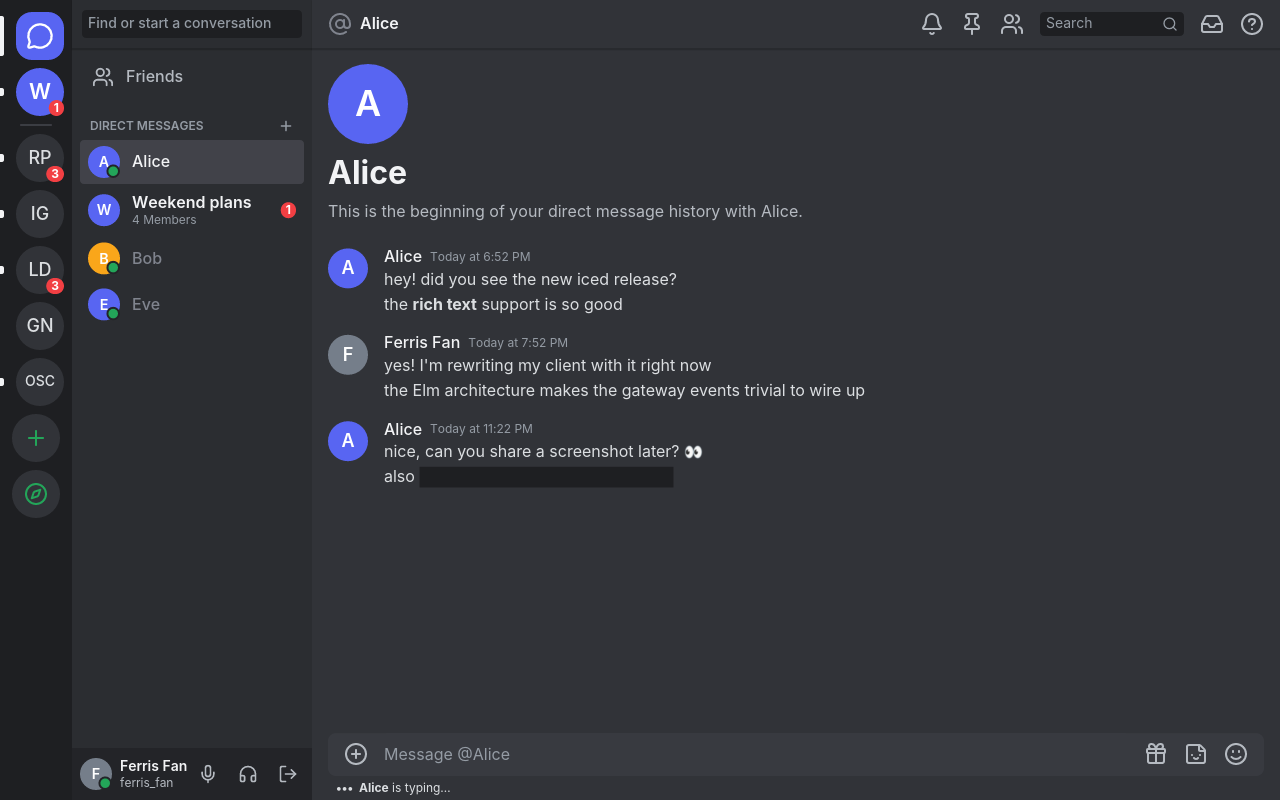
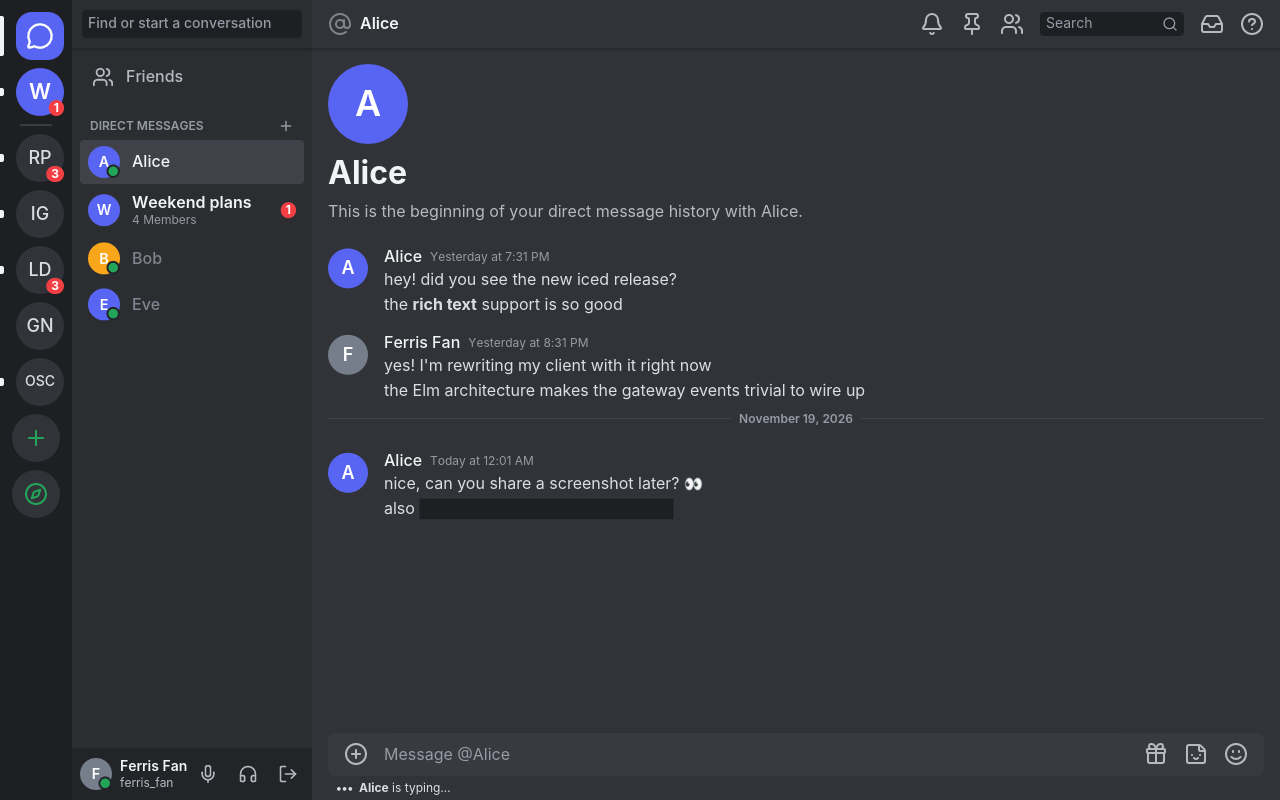
feat(ui): render inline custom emoji images in a wrapping text flow
Claude-Session: https://claude.ai/code/session_011GZUAJAc8TohrBZJFGozGm

diff --git a/src/mock.rs b/src/mock.rs
@@ -558,6 +558,31 @@ fn showcase() -> Vec<Message> {
     vec![d, b, c, a, e]
 }
 
+/// A small round "emoji" image (original artwork: a coloured face) used for
+/// the mock custom emoji. Returns (size, pixels).
+pub fn mock_emoji(rgb: [u8; 3]) -> (u32, Vec<u8>) {
+    let n = 48u32;
+    let mut px = Vec::with_capacity((n * n * 4) as usize);
+    let c = (n as f32 - 1.0) / 2.0;
+    for y in 0..n {
+        for x in 0..n {
+            let (dx, dy) = (x as f32 - c, y as f32 - c);
+            let d = (dx * dx + dy * dy).sqrt();
+            let eye = ((dx.abs() - 8.0).powi(2) + (dy + 6.0).powi(2)).sqrt() < 3.5;
+            let mouth = (d - 12.0).abs() < 2.0 && dy > 4.0;
+            let p = if d > c {
+                [0, 0, 0, 0]
+            } else if eye || mouth {
+                [40, 30, 30, 255]
+            } else {
+                [rgb[0], rgb[1], rgb[2], 255]
+            };
+            px.extend_from_slice(&p);
+        }
+    }
+    (n, px)
+}
+
 /// Procedurally generated RGBA image (a stylised landscape) used as the
 /// mock attachment preview. Returns (width, height, pixels).
 pub fn mock_image(w: u32, h: u32) -> (u32, u32, Vec<u8>) {
